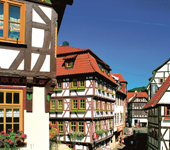
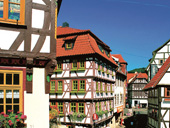
thema's-pagina aangepast
Thema's-pagina voorzien van nieuwe vormgeving (op basis van opzet Miguel).

http://www.zomerhuisje.nl/themas.php?testsysteem=1
http://www.chalet.nl/themas.php?testsysteem=1

Bij aanbiedingenpagina foto's iets verkleind om verhoudingen te laten matchen met thema's-pagina.

diff --git a/content/themas.html b/content/themas.html
@@ -2,8 +2,9 @@
 
 if($_GET["testsysteem"] or $vars["lokale_testserver"]) {
 	
+	echo "<p style=\"width:720px;\">";
 	echo html("inleiding","themas",array("l1"=>"contact","v_websitenaam"=>$vars["websitenaam"]));
-	echo "<br>&nbsp;<br>";
+	echo "</p>";
 	
 	$db->query("SELECT thema_id, naam".$vars["ttv"]." AS naam, url".$vars["ttv"]." AS url, externeurl".$vars["ttv"]." AS externeurl FROM thema WHERE wzt='".addslashes($vars["seizoentype"])."' AND actief=1 ORDER BY ".($vars["seizoentype"]==2 ? "positiehoofdpagina, " : "")."naam".$vars["ttv"].";");
 	if($db->num_rows()) {
@@ -21,21 +22,19 @@ if($_GET["testsysteem"] or $vars["lokale_testserver"]) {
 				$url=$vars["path"].txt("menu_thema")."/".$db->f("url")."/";
 			}
 			if($db->f("naam")) {
-				// deze div wordt herhaald voor iedere foto.
-				echo "<div class=\"themas_keuze\">";
-	            echo "<div class=\"themas_keuze_top\">";
-	            echo "<div style=\"position:relative;\">";
-	            echo "<a href=\"".htmlentities($url)."\"".$blank.">".htmlentities($db->f("naam"))."</a><br /><br />";
-	            echo "</div>";
-	            echo "</div>";
-				echo "<a href=\"".htmlentities($url)."\"".$blank."><img src=\"".$vars["path"]."pic/cms/themas_hoofdpagina/".$db->f("thema_id").".jpg?c=2\" width=\"170\" border=\"0\"></a><br />";
-				echo "</div>";
+				$naam=$db->f("naam");
+				if($naam=="Te gast op de boerderij") $naam="Op de boerderij";
+				echo "<a href=\"".wt_he($url)."\" class=\"themas_blok\">";
+				echo "<div class=\"themas_blok_top\"><div style=\"position: relative;\">".wt_he($naam)."</div></div><img src=\"".$vars["path"]."pic/cms/themas_hoofdpagina/".$db->f("thema_id").".jpg?c=2\" width=\"170\" height=\"128\" alt=\"".wt_he($naam)."\">";
+				echo "</a>";
+				
 			}
 			if($teller%4==0) {
-				echo "<br class=\"clearboth\">";    	
+				echo "<br class=\"clearboth\">";
 			}
 			$teller++;
 		}
+		echo "<br class=\"clearboth\">";
 	}
 } else {
 	#

diff --git a/css/themas.css b/css/themas.css
@@ -1,47 +1,36 @@
-.themas_keuze {
-	border: 1px solid 
-	white;
+
+.themas_blok {
+	display: block;
+	border: 1px solid #ffffff;
 	width: 170px;
 	text-align: center;
 	margin-right: 10px;
 	margin-bottom: 10px;
 	float: left;
-	color: 
-	white;
+	color: #003366;
+	text-decoration: none;
 }
 
-.themas_keuze_top {
-	background-color: 
-	#CBD328;
-	height: 30px;
-	width: 170px;
+.themas_blok img {
+	border: 0px;
+}
+
+.themas_blok_top {
+	background-color: #d5e1f9;
+	height: 34px;
+	width: 166px;
+	padding-left: 2px;
+	padding-right: 2px;
 	vertical-align: middle;
 	display: table-cell;
-	font-size: 1.1em;
+	font-size: 1.0em;
 	font-weight: bold;
-	padding-top:10px;
 }
 
-.themas_keuze_top a{
-	color:#ffffff;
-	text-decoration:none;
-}
-
-.themas_keuze_top a:hover{
-	color:#639;
-	text-decoration:none;
-}
-
-.thumbnail {
-	float: left;
-	width: 189px;
-	margin: 0 15px 15px 0;
-}
-
-.thumbnail img {
-	width:189px;
-	height:142px;
-	border:0px; 
+.themas_blok:hover {
+	border: 1px solid #d40139;
+	color: #d40139;
+	cursor: pointer;
 }
 
 .clearboth { 

diff --git a/scripts/functions.js b/scripts/functions.js
@@ -464,9 +464,18 @@ $(document).ready(function() {
 
 	if(gebruik_jquery==true) {
 		// jquery
-		
-		
+	
 		if($().tabs) {
+		
+			// Google Analytics bij switchen tussen tabs
+			
+			if($("#tabs").length != 0) {
+				$("#tabs").bind("tabsselect",function(event,ui) {
+//					_gaq.push(['_trackPageview', window.location.pathname + '/tab-' + ui.tab.innerHTML]);
+//					alert(window.location.pathname+ui.tab.innerHTML);
+				});
+			}
+		
 			// fotoslide hoofdpagina
 		//	$("#featured").tabs({fx:{opacity: "toggle"}}).tabs("rotate", 5000, true);
 			$("#featured > ul").tabs({event: 'mouseover',fx:{opacity: "toggle"}}).tabs("rotate", 5000, true);  

diff --git a/content/aanbiedingen_zomerhuisje.html b/content/aanbiedingen_zomerhuisje.html
@@ -15,7 +15,7 @@ function ab_landenblok($land) {
 	echo "<div class=\"ab_landenkeuze_top\">";
 	echo "<div style=\"position: relative\">".html($land,"index")."</div>";
 	echo "</div>";
-	echo "<img src=\"".$vars["path"]."pic/ab_".$land.".jpg\" width=\"170\" height=\"150\" alt=\"\">";
+	echo "<img src=\"".$vars["path"]."pic/ab_".$land.".jpg?c=1\" width=\"170\" height=\"128\" alt=\"\">";
 
 	echo "</div>"; # afsluiten ab_landenkeuze
 }

diff --git a/css/aanbiedingen_zomerhuisje.css b/css/aanbiedingen_zomerhuisje.css
@@ -1,5 +1,4 @@
 
-
 #ab_landen {
 	float: left;
 	width: 550px;
